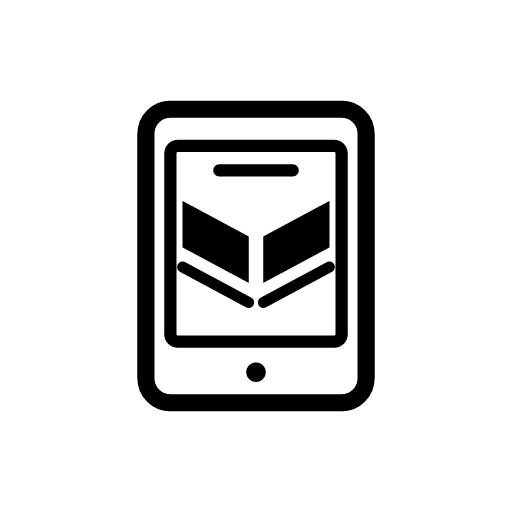
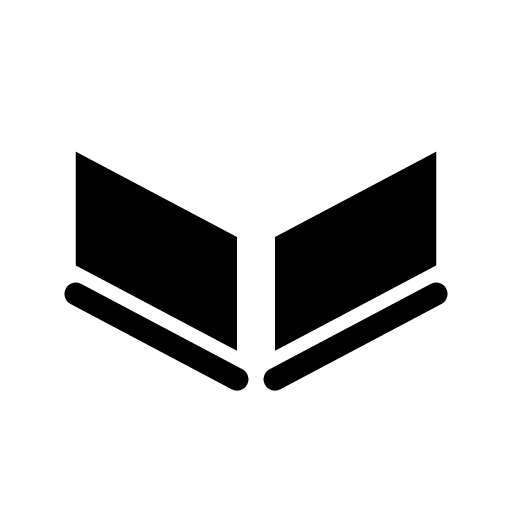
Use supplied SVG imagery without added reader frame

Changed region(s): [[0.125, 0.1875, 0.875, 0.8125]]

diff --git a/design/README.md b/design/README.md
@@ -1,6 +1,6 @@
 # eWikiReader icon
 
-`ewikireader-icon.svg` is the editable source: the supplied open-book motif is adapted to sit inside a portrait e-reader screen, with a bezel and a single navigation button. Artwork uses opaque black with a transparent background. Its inset keeps it inside Android's adaptive-icon safe circle.
+`ewikireader-icon.svg` is the exact SVG supplied by the user: two filled book-page polygons and two rounded page-edge strokes. No frame, button, or other imagery is added. Android vectors retain all geometry and stroke proportions, uniformly scaling to 75% and centering the SVG viewport within the adaptive-icon safe circle.
 
 Android vectors are `app/src/main/res/drawable/ic_launcher_monochrome.xml` and the identical `ic_launcher_foreground.xml` (used by About). Keep both synchronized when editing the SVG. The adaptive icon uses the monochrome vector for both `foreground` and `monochrome`, with the existing white background. Android 11 therefore displays black on white without requiring themed-icon support. On newer Android launchers, the OS may tint the monochrome layer according to the system theme.
 
